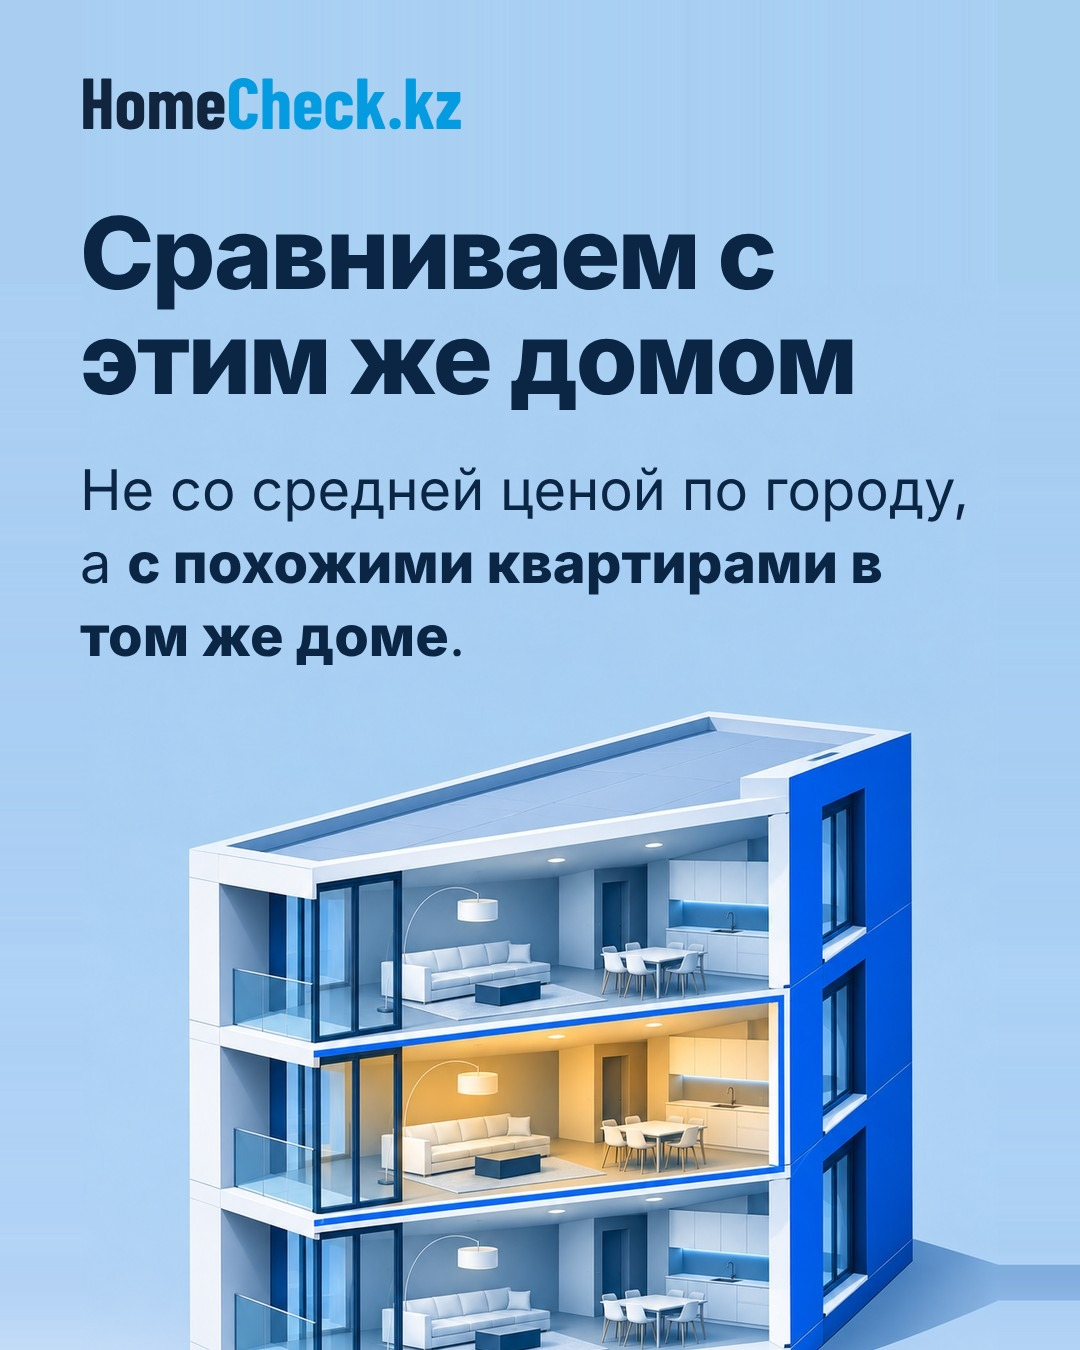
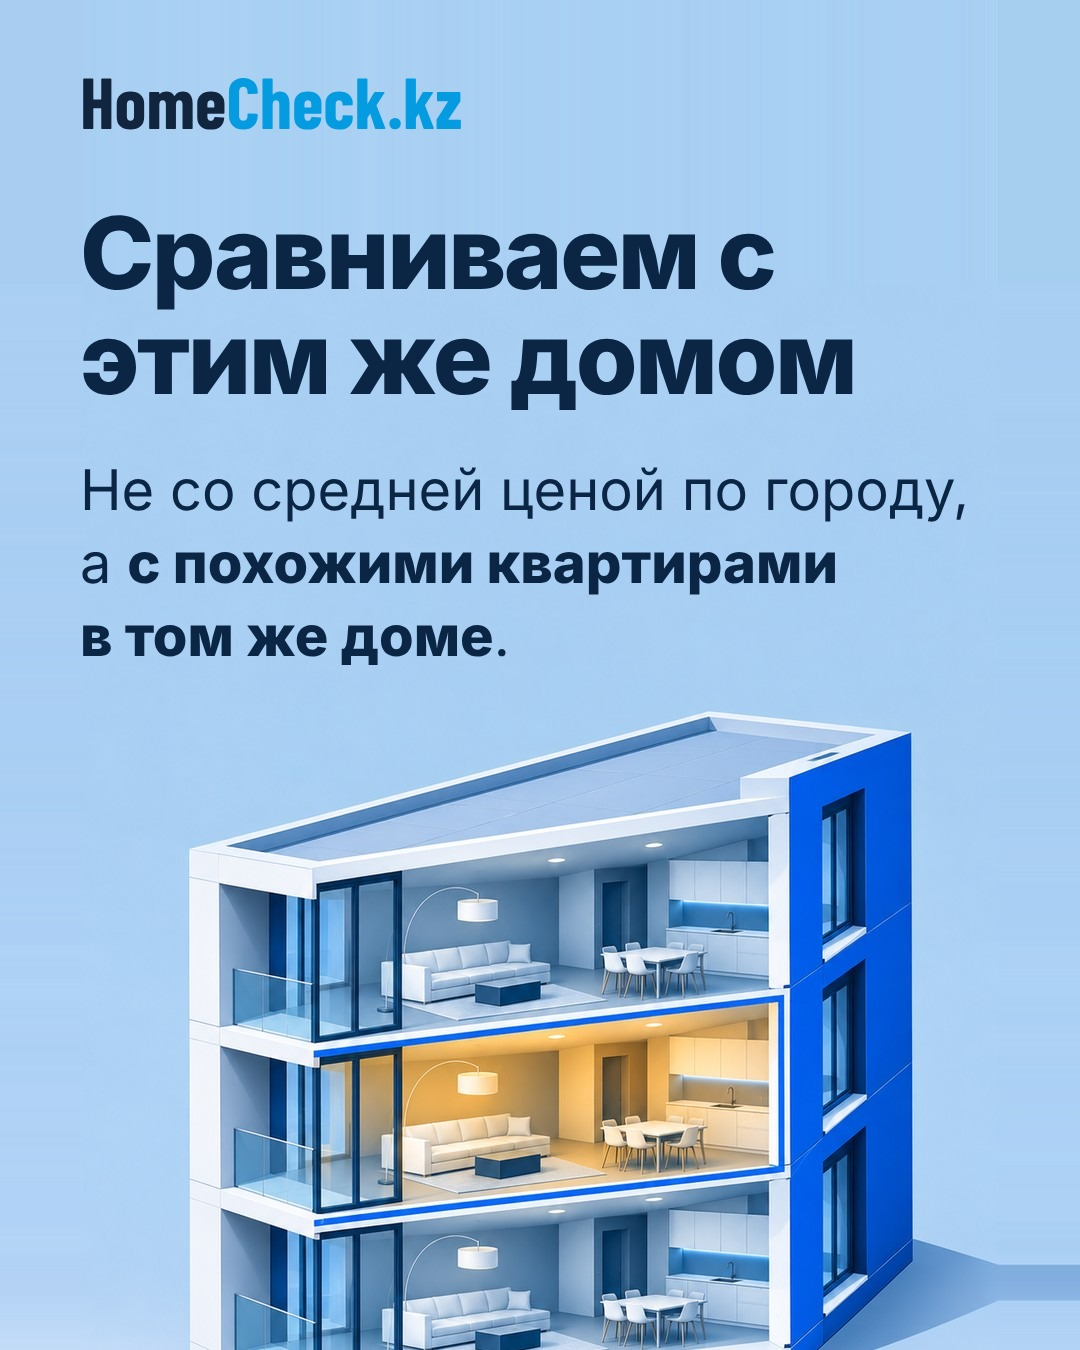
Post 07.11: new texts (registration, monthly average 2026, privacy), GPT images
Claude-Session: https://claude.ai/code/session_01YPTRhbcfXRBnSeVtmn8ipe

Changed region(s): [[0.0611, 0.4356, 0.4583, 0.4978], [0.7639, 0.4044, 0.825, 0.4356]]

diff --git a/posts/2026-11-07-pochemu-doveryat/build.py b/posts/2026-11-07-pochemu-doveryat/build.py
@@ -15,20 +15,18 @@ GAP = 40  # min space between text and the scene
 
 INNER = [
     logo(64) + BOX + '<h1 class="t">Почему нашим данным можно доверять</h1><span class="p acc">Листайте →</span></div>',
-    logo(64) + BOX + '<h2 class="t">Это не объявления</h2>'
-      '<p class="p">Мы берём цены из <b>зарегистрированных сделок</b>: за сколько квартиры реально купили.</p></div>',
-    logo(64) + '<div class="box" style="top:200px;gap:24px">'
-      '<p class="lb">Сделки с жильём регистрирует государство</p>'
-      '<p class="num">27 096</p>'
-      '<p class="p">сделок с квартирами за сентябрь 2026 в&nbsp;Казахстане</p>'
+    logo(64) + BOX + '<h2 class="t">Данные из госрегистрации</h2>'
+      '<p class="p">Каждая продажа квартиры регистрируется государством. <b>На этих записях построены наши данные.</b></p></div>',
+    logo(64) + '<div class="box" style="top:200px;gap:28px">'
+      '<p class="num">≈33&nbsp;000</p>'
+      '<p class="p">сделок с жильём в среднем регистрируют в Казахстане каждый месяц в 2026 году</p>'
       '<p class="lb">Источник: Бюро национальной статистики</p></div>',
     logo(64) + BOX + '<h2 class="t">Сравниваем с этим же домом</h2>'
-      '<p class="p">Не со средней ценой по городу, а <b>с похожими квартирами в том же доме</b>.</p></div>',
-    logo(64) + BOX + '<h2 class="t">Проверьте нас на своей квартире</h2>'
-      '<p class="p">Введите адрес, где живёте, и мы покажем, <b>когда вы её купили</b>.</p>'
-      '<p class="lb">Если сделка есть в наших данных</p></div>',
-    logo(64) + BOX + '<h2 class="t">Проверьте квартиру до покупки</h2>'
-      '<p class="p">Введите адрес на <b>homecheck.kz</b></p></div>',
+      '<p class="p">Не со средней ценой по городу, а <b>с похожими квартирами в&nbsp;том же доме</b>.</p></div>',
+    logo(64) + BOX + '<h2 class="t">Без личных данных</h2>'
+      '<p class="p">Мы не показываем, кто продавал и покупал квартиру, — <b>только сделки, цены и даты</b>.</p></div>',
+    logo(64) + BOX + '<h2 class="t">Узнайте главное до покупки</h2>'
+      '<p class="p">Введите адрес на <b>homecheck.kz</b> и посмотрите историю квартиры до&nbsp;сделки.</p></div>',
 ]
 
 
@@ -39,7 +37,7 @@ def scene_top(img):
     return int(np.argmax(rows > 0.01))
 
 
-SCALE = {4: 0.85}  # isolated object on plain sky: shrink instead of cutting off the lower floor
+SCALE = {4: 0.85, 6: 0.85}  # isolated object on plain sky: shrink instead of cutting off the lower floor
 
 
 def fit(img, text_bottom, scale=1.0):
